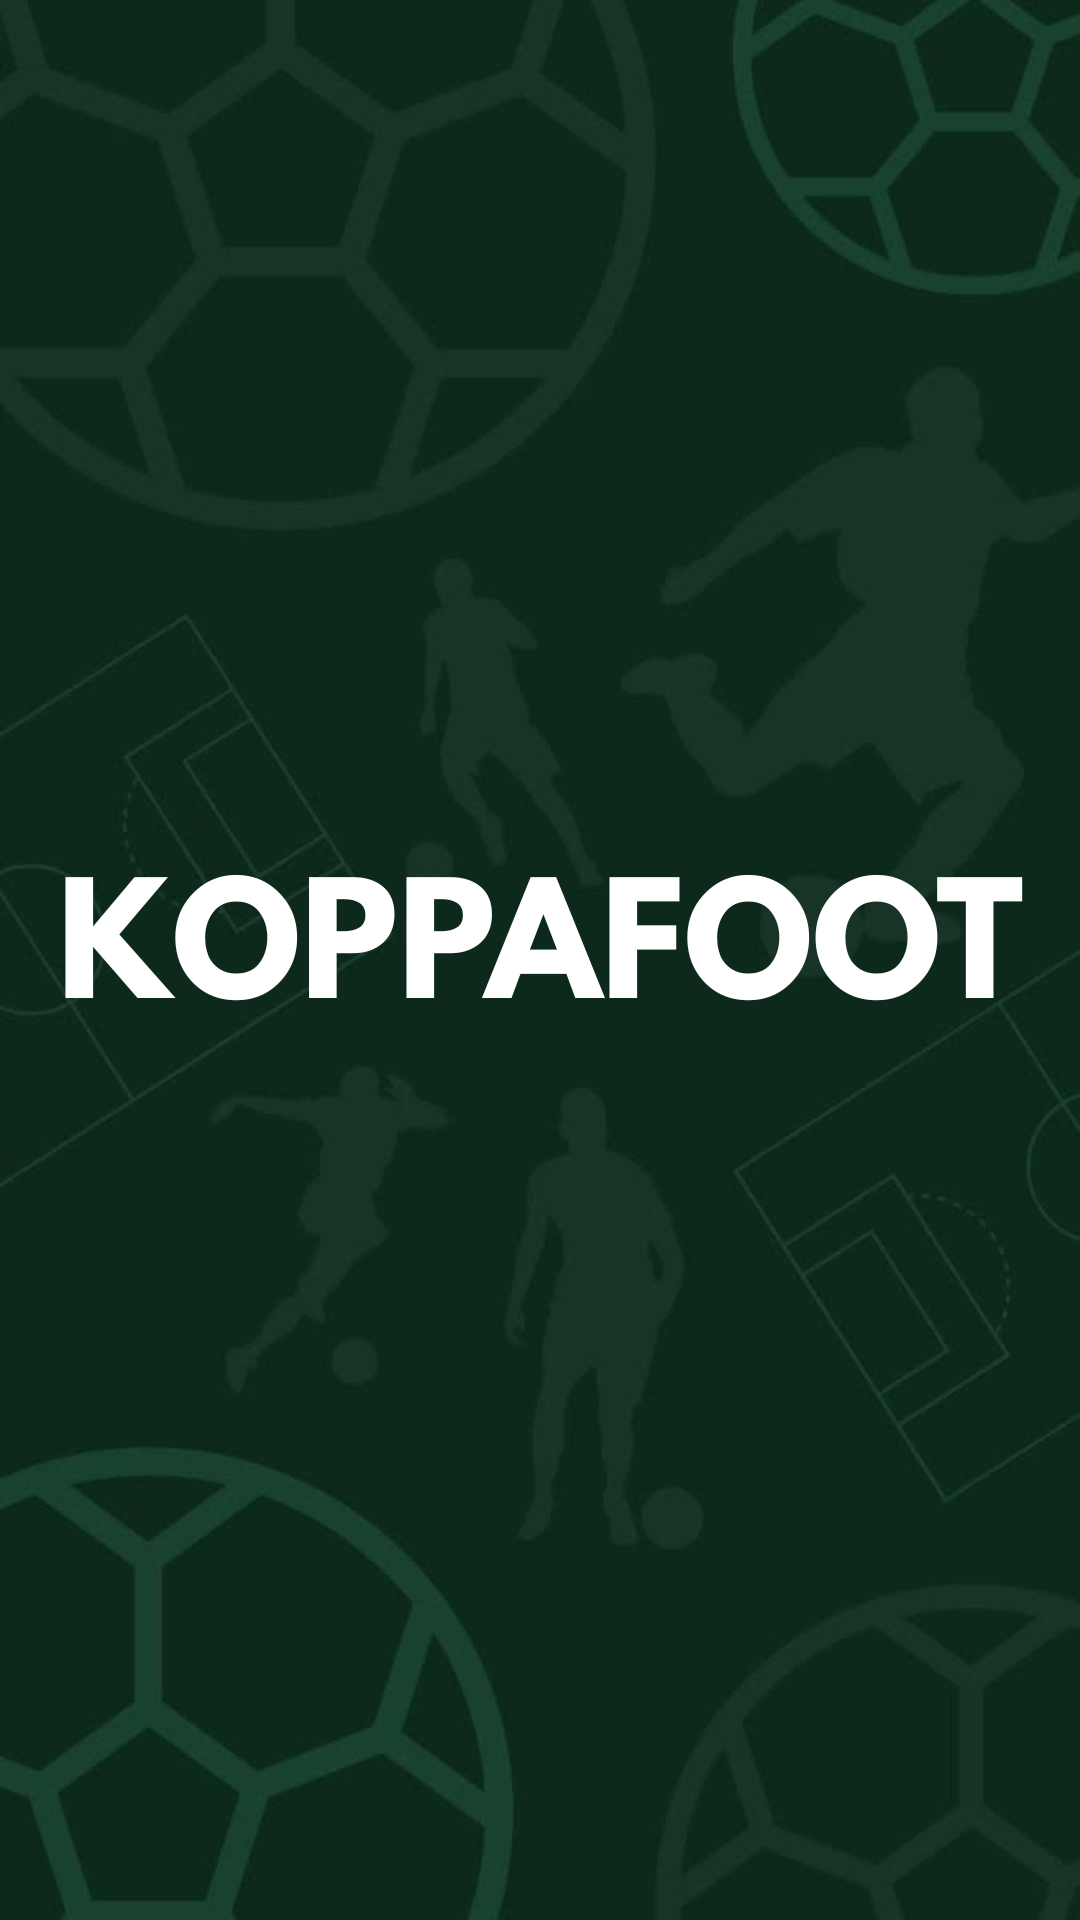
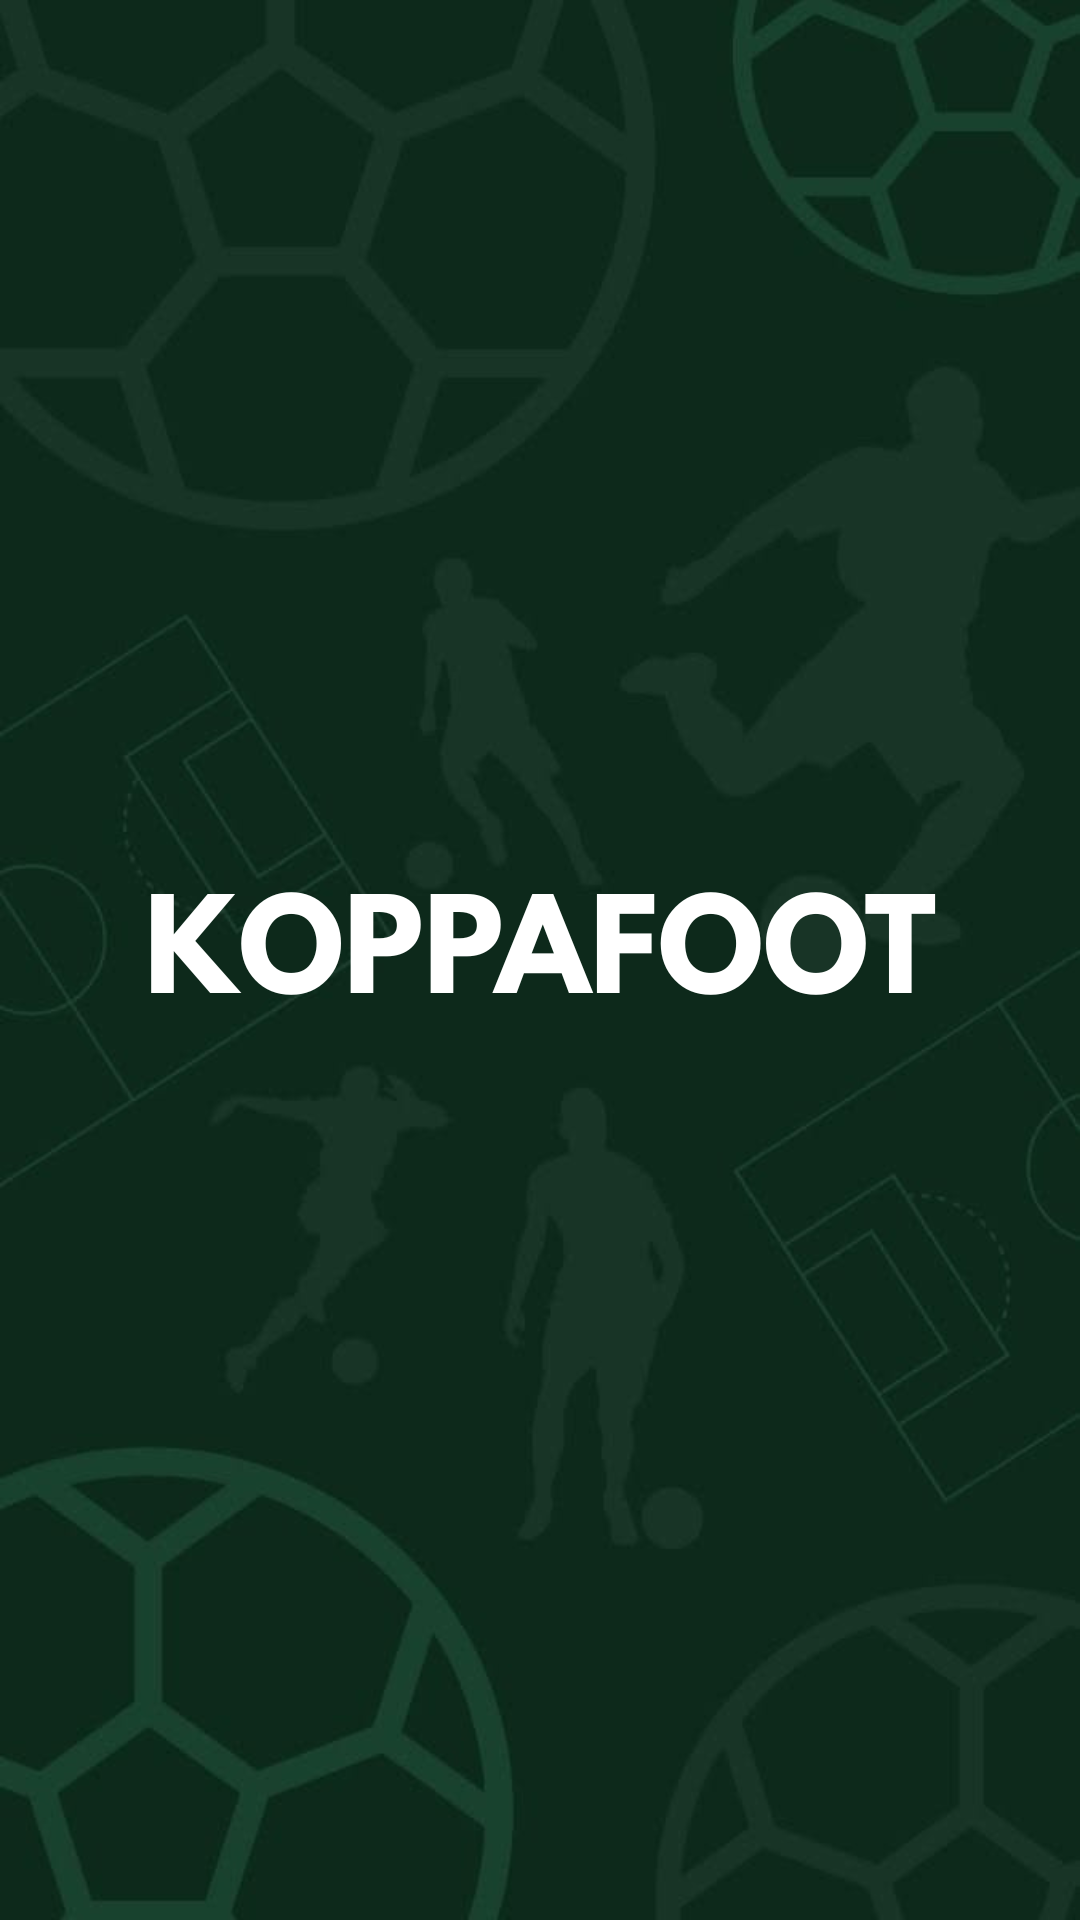
Ecran de demarrage : l'illustration corrigee, et un controle des marges
L'image de de722e9 (« splash fixed »), toujours deposee a la racine sous
`branding/` : elle prend sa place sous public/branding, avec le reste de
la marque.

ELLE TIENT LARGEMENT LA CONTRAINTE. Le mot-marque y garde 14,0 % de marge
a gauche et 13,4 % a droite, la ou il en fallait 9,1 % pour que le plus
etroit des appareils — le 1206x2622, qui ne montre que 81,8 % de la
largeur — ne le rogne pas. Le recadrage `cover` suffit donc, sans rien
changer au generateur.

UN CONTROLE DES MARGES, POUR NE PLUS DEPENDRE DE MON OEIL

Le mot-marque est le seul blanc de l'illustration, donc l'encadre des
pixels clairs le cerne exactement. S'il arrive a moins de cinq pixels
d'un bord vertical, la generation ECHOUE au lieu d'ecrire dix-huit
fichiers casses.

C'est la question que la premiere serie n'a pas posee. J'avais regarde
deux rendus — l'iPad et le plus petit telephone — c'est-a-dire les deux
qui allaient bien, et les dix autres sont partis en production avec le
« K » et le « T » hors de l'ecran. Un rendu qu'on regarde sur une taille
ne prouve rien : il y en a dix-huit.

La marge a tenir est ecrite dans le fichier, pour qui refera
l'illustration : 9,1 % lateralement, 12,5 % en haut et en bas. Ce sont
les deux appareils extremes de la table.

VERIFICATION

Les 18 fichiers font la taille exacte annoncee par leur nom, et le
mot-marque y est entier — marge laterale la plus faible : 46 px, sur le
828x1792. La serie pese 947 ko.
[…]

Changed region(s): [[0.0611, 0.4375, 0.9472, 0.5312]]

diff --git a/scripts/generer-splash.ts b/scripts/generer-splash.ts
@@ -86,6 +86,8 @@ async function main() {
 
   console.log(`\n${tailles.size} fichiers, ${Math.round(total / 1024)} ko au total.`);
 
+  await verifierLeMotMarque();
+
   if (avant.size > 0) {
     console.log(`\nOrphelins (plus aucune balise ne les demande) : ${[...avant].join(", ")}`);
   }
@@ -95,3 +97,75 @@ main().catch((err) => {
   console.error(err);
   process.exit(1);
 });
+
+/**
+ * LE MOT-MARQUE TOUCHE-T-IL UN BORD ?
+ *
+ * C'est la question que la première série n'a pas posée, et l'écran de
+ * démarrage est parti en production avec le « K » et le « T » coupés sur tous
+ * les iPhone récents : la source est au format d'un téléphone (9:16), un
+ * iPhone moderne fait du 19,5:9, et `cover` y rogne les CÔTÉS. J'avais regardé
+ * deux rendus — l'iPad et le plus petit téléphone — c'est-à-dire les deux qui
+ * allaient bien. Un rendu qu'on regarde sur une taille ne prouve rien : il y
+ * en a dix-huit.
+ *
+ * Le mot-marque est le seul blanc de l'illustration, donc l'encadré des pixels
+ * clairs le cerne exactement. S'il arrive à moins de cinq pixels d'un bord
+ * vertical, la génération ÉCHOUE au lieu d'écrire dix-huit fichiers cassés.
+ *
+ * LA MARGE À TENIR DANS L'ILLUSTRATION, si quelqu'un la refait : 9,1 % de
+ * chaque côté et 12,5 % en haut et en bas. Ce sont les deux appareils
+ * extrêmes de la table — le 1206×2622, le plus étroit, ne montre que 81,8 %
+ * de la largeur ; l'iPad 1536×2048, le plus large, que 75 % de la hauteur.
+ */
+async function verifierLeMotMarque() {
+  const MARGE_MINIMALE = 5;
+  const fautifs: string[] = [];
+  let sansBlanc = 0;
+
+  for (const fichier of fs.readdirSync(DESTINATION).filter((f) => f.endsWith(".jpg")).sort()) {
+    const { data, info } = await sharp(path.join(DESTINATION, fichier))
+      .raw()
+      .toBuffer({ resolveWithObject: true });
+
+    let gauche = info.width;
+    let droite = -1;
+    // Une ligne sur deux : le mot fait des centaines de pixels de haut, il ne
+    // peut pas passer entre les mailles, et c'est deux fois moins à lire.
+    for (let y = 0; y < info.height; y += 2) {
+      for (let x = 0; x < info.width; x++) {
+        const i = (y * info.width + x) * info.channels;
+        if (data[i] > 200 && data[i + 1] > 200 && data[i + 2] > 200) {
+          if (x < gauche) gauche = x;
+          if (x > droite) droite = x;
+        }
+      }
+    }
+
+    // Aucun pixel clair : l'illustration a changé et ce contrôle ne sait plus
+    // ce qu'il cherche. On le dit plutôt que de rendre un feu vert vide.
+    if (droite < 0) {
+      sansBlanc += 1;
+      continue;
+    }
+
+    if (gauche < MARGE_MINIMALE || info.width - 1 - droite < MARGE_MINIMALE) {
+      fautifs.push(`${fichier} (marges ${gauche} / ${info.width - 1 - droite} px)`);
+    }
+  }
+
+  if (sansBlanc > 0) {
+    console.warn(
+      `\n! ${sansBlanc} fichier(s) sans pixel clair : le contrôle du mot-marque ` +
+        "suppose qu'il est blanc. À revoir si l'illustration a changé.",
+    );
+  }
+
+  if (fautifs.length > 0) {
+    console.error("\nLE MOT-MARQUE EST COUPÉ :");
+    for (const f of fautifs) console.error(`  ${f}`);
+    process.exit(1);
+  }
+
+  console.log("Mot-marque entier sur toutes les tailles.");
+}
